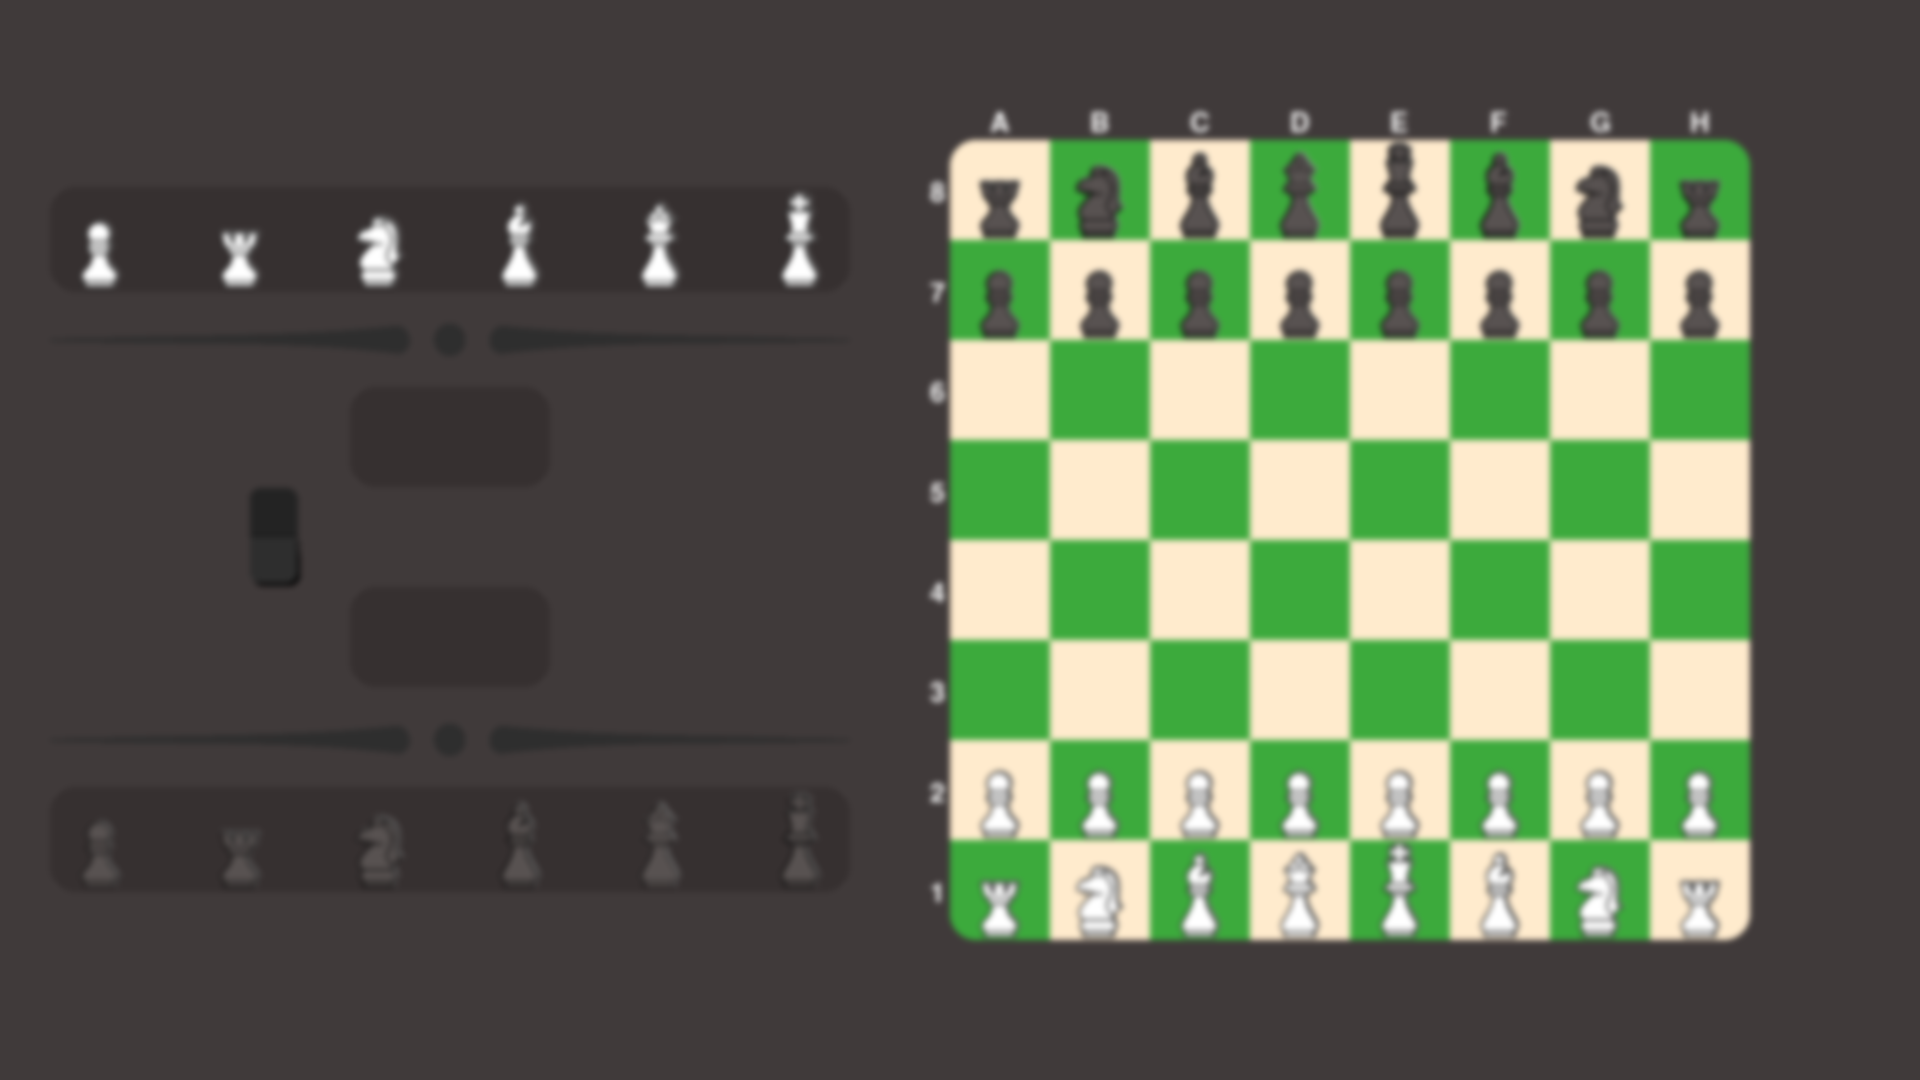
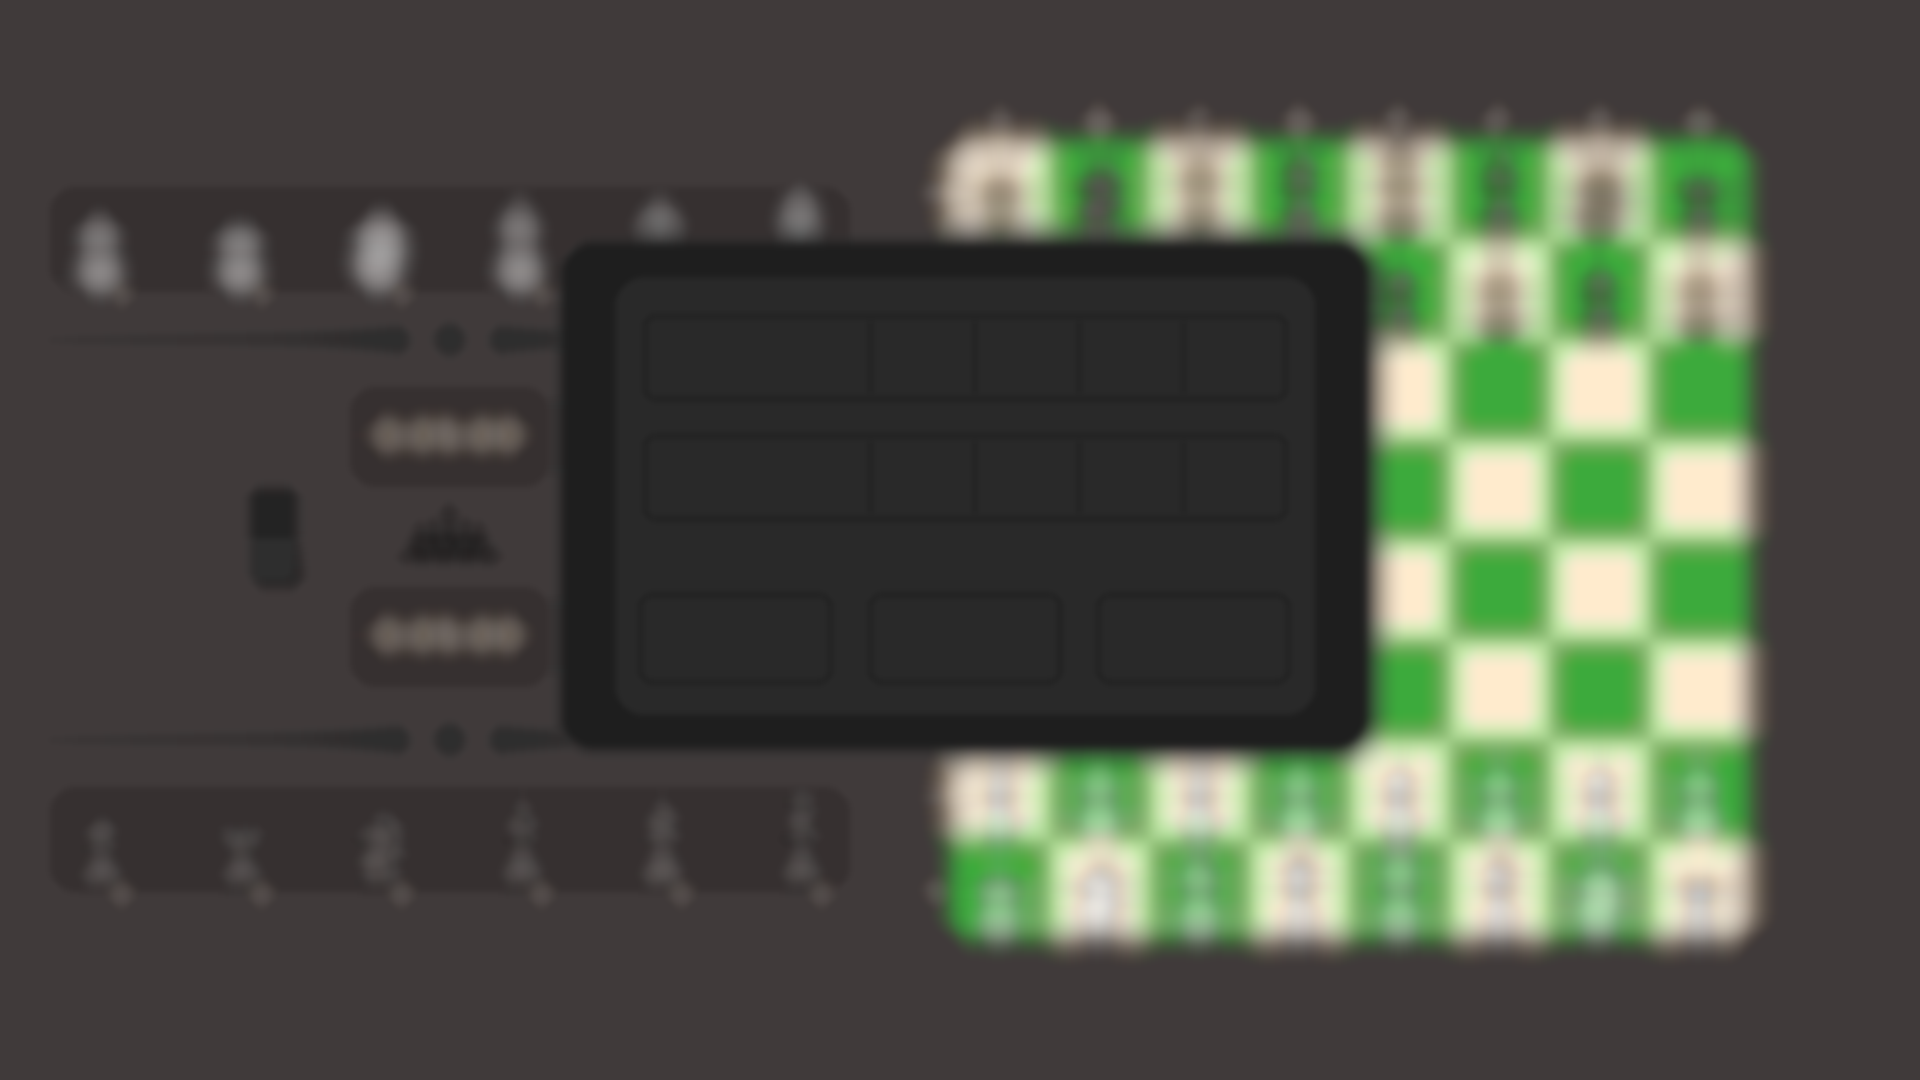
Timers and end menu(press alt if u want to die)

diff --git a/Chess.py b/Chess.py
@@ -5,24 +5,47 @@ import Config
 import Button
 import keyboard
 import os
+from datetime import timedelta
+from PIL import Image, ImageFilter
 
 
-poll = deepcopy(Config.pole)
-positive = deepcopy(Config.positive)
 end = 0
 start = 1
-# game_set = 'start'
+timers = [0, 0]
+eatw = [0, 0, 0, 0, 0, 0]
+eatb = [0, 0, 0, 0, 0, 0]
+
+
+def start_game(time):
+    if time == 'short':
+        timers[0], timers[1] = timedelta(minutes=5), timedelta(minutes=5)
+    elif time == 'long':
+        timers[0], timers[1] = timedelta(minutes=30), timedelta(minutes=30)
+def draw_time():
+    fonte(timers[0].__str__(), 375, 418, tim)
+    fonte(timers[1].__str__(), 375, 618, tim)
 
 
 def stater(x, y): return poll[x][y] != '-'
+
+
+def ender():
+    pygame.image.save(screen, "data\\screenshot.png")
+    im = Image.open("data\\screenshot.png")
+    im2 = im.filter(ImageFilter.GaussianBlur(radius=3))
+    im2.save('data\\screenshot.png')
+    screen.blit(load_image('screenshot.png'), (0, 0))
+    screen.blit(load_image('финишное_меню.png'), (565, 246))
 
 
 def get_menu_button(mouse_pos):
     x, y = mouse_pos
     if 1296 <= x <= 1716 and 739 <= y <= 943:
         return 'exit'
-    elif 755 <= x <= 1175 and 739 <= y <= 943 or 213 <= x <= 633 and 739 <= y <= 943:
-        return 'play'
+    elif 755 <= x <= 1175 and 739 <= y <= 943:
+        return 'short'
+    elif 213 <= x <= 633 and 739 <= y <= 943:
+        return 'long'
 
 
 def cleaner():
@@ -66,16 +89,7 @@ class Board:
                     screen.blit(im, (self.left + self.cell_size * j, self.top + self.cell_size * i))
                 elif poll[i][j] == '*':
                     pygame.draw.circle(screen, (177, 231, 42), (self.left + self.cell_size * j + 50,
-                                                               self.top + self.cell_size * i + 50), 20)
-        screen.blit(load_image('эмблема.png'), (400, 487))
-        for el in positive:
-            pygame.draw.rect(screen, (54, 48, 48),
-                             el,
-                             0, border_top_left_radius=25, border_top_right_radius=25,
-                             border_bottom_left_radius=25, border_bottom_right_radius=25)
-        for il in range(290, 691, 400):
-            image = load_image(f"палка.png")
-            screen.blit(image, (50, il))
+                                                                self.top + self.cell_size * i + 50), 20)
         sprit()
 
     def set_view(self, left, top, cell_size):
@@ -126,34 +140,60 @@ board.set_view(950, 140, 100)
 running = True
 clock = pygame.time.Clock()
 font = pygame.font.Font(os.path.join('data', 'Leto Text Sans Defect.otf'), 30)
-numfig = pygame.font.SysFont('arial', 20)
+numfig = pygame.font.Font(os.path.join('data', 'Leto Text Sans Defect.otf'), 20)
 Menuf = pygame.font.Font(os.path.join('data', 'Leto Text Sans Defect.otf'), 60)
+tim = pygame.font.Font(os.path.join('data', 'Leto Text Sans Defect.otf'), 40)
+
 
 while running:
-    clock.tick(30)
-    for event in pygame.event.get():
-        if event.type == pygame.QUIT or keyboard.is_pressed('escape'):
-            running = False
-        if event.type == pygame.MOUSEBUTTONDOWN:
-            if start:
-                if get_menu_button(event.pos) == 'exit':
-                    running = False
-                elif get_menu_button(event.pos) == 'play':
-                    start = 0
-            else:
-                board.get_click(event.pos)
-                Button.all_sprites.update(event)
-
+    clock.tick(10)
+    MYTIMER1 = pygame.USEREVENT + 1
+    MYTIMER2 = MYTIMER1 + 1
     if not running:
         pygame.quit()
     else:
+        for event in pygame.event.get():
+            if event.type == pygame.QUIT or keyboard.is_pressed('escape'):
+                running = False
+            if event.type == MYTIMER1:
+                timers[0] -= timedelta(seconds=1)
+            if event.type == MYTIMER2:
+                timers[1] -= timedelta(seconds=1)
+            if keyboard.is_pressed('alt'):
+                end = 1
+            if event.type == pygame.MOUSEBUTTONDOWN:
+                if start:
+                    if get_menu_button(event.pos) == 'exit':
+                        running = False
+                    elif get_menu_button(event.pos) == 'short':
+                        start = 0
+                        start_game('short')
+                    elif get_menu_button(event.pos) == 'long':
+                        start = 0
+                        start_game('long')
+                    poll = deepcopy(Config.pole)
+                elif not start and not end:
+                    Button.all_sprites.update(event)
+                    cd = Button.button.get_hod()
+                    if cd == 'b':
+                        pygame.time.set_timer(MYTIMER2, 1000)
+                        pygame.time.set_timer(MYTIMER1, 0)
+                    elif cd == 'w':
+                        pygame.time.set_timer(MYTIMER1, 1000)
+                        pygame.time.set_timer(MYTIMER2, 0)
+                    board.get_click(event.pos)
         if start:
             screen.blit(load_image('меню_старт.png'), (0, 0))
             fonte('LONG MATCH', 235, 820, Menuf)
             fonte('FAST MATCH', 780, 820, Menuf)
             fonte('EXIT GAME', 1350, 820, Menuf)
+        elif end and not start:
+            ender()
         else:
             screen.fill((64, 58, 58))
             board.render(screen)
             Button.all_sprites.draw(screen)
+            [fonte(eatw[i], 140 * (i + 1) - 25, 285, numfig) for i in range(6)]
+            [fonte(eatb[i], 140 * (i + 1) - 25, 885, numfig) for i in range(6)]
+            draw_time()
         pygame.display.flip()

diff --git a/Appear.py b/Appear.py
@@ -7,6 +7,8 @@ screen = pygame.display.set_mode((1920, 1080), pygame.FULLSCREEN)
 
 figures = ['пешка', 'ладья', 'конь', 'слон', 'королева', 'король']
 
+positive = [(50, 187, 800, 105), (50, 787, 800, 105), (350, 387, 200, 100), (350, 587, 200, 100)]
+
 
 def load_image(name, colorkey=None):
     fullname = os.path.join('data', name)
@@ -31,9 +33,19 @@ def fonte(word, x, y, fint, color=(255, 235, 205)):
 
 def sprit():
     xch, ych, yb = 50, 190, 790
+    for el in positive:
+        pygame.draw.rect(screen, (54, 48, 48),
+                         el,
+                         0, border_top_left_radius=25, border_top_right_radius=25,
+                         border_bottom_left_radius=25, border_bottom_right_radius=25)
+    for il in range(290, 691, 400):
+        image = load_image(f"палка.png")
+        screen.blit(image, (50, il))
     for i in figures:
         image1 = load_image(f"{i}.png")
         screen.blit(image1, (xch, ych))
         image2 = load_image(f"{i}_ч.png")
         screen.blit(image2, (xch, yb))
         xch += 140
+    screen.blit(load_image('эмблема.png'), (400, 487))
+

diff --git a/Button.py b/Button.py
@@ -14,16 +14,20 @@ class Buttony(pygame.sprite.Sprite):
         self.rect = self.image.get_rect()
         self.rect.x = 250
         self.rect.y = 487
+        self.hod = None
 
     def update(self, *args):
         if args and args[0].type == pygame.MOUSEBUTTONDOWN and \
                 self.rect.collidepoint(args[0].pos):
             if self.image == self.imbel:
                 self.image = self.imch
-                return 'b'
+                self.hod = 'b'
             else:
                 self.image = self.imbel
-                return 'w'
+                self.hod = 'w'
+
+    def get_hod(self):
+        return self.hod
 
 
-Buttony(all_sprites)
+button = Buttony(all_sprites)
